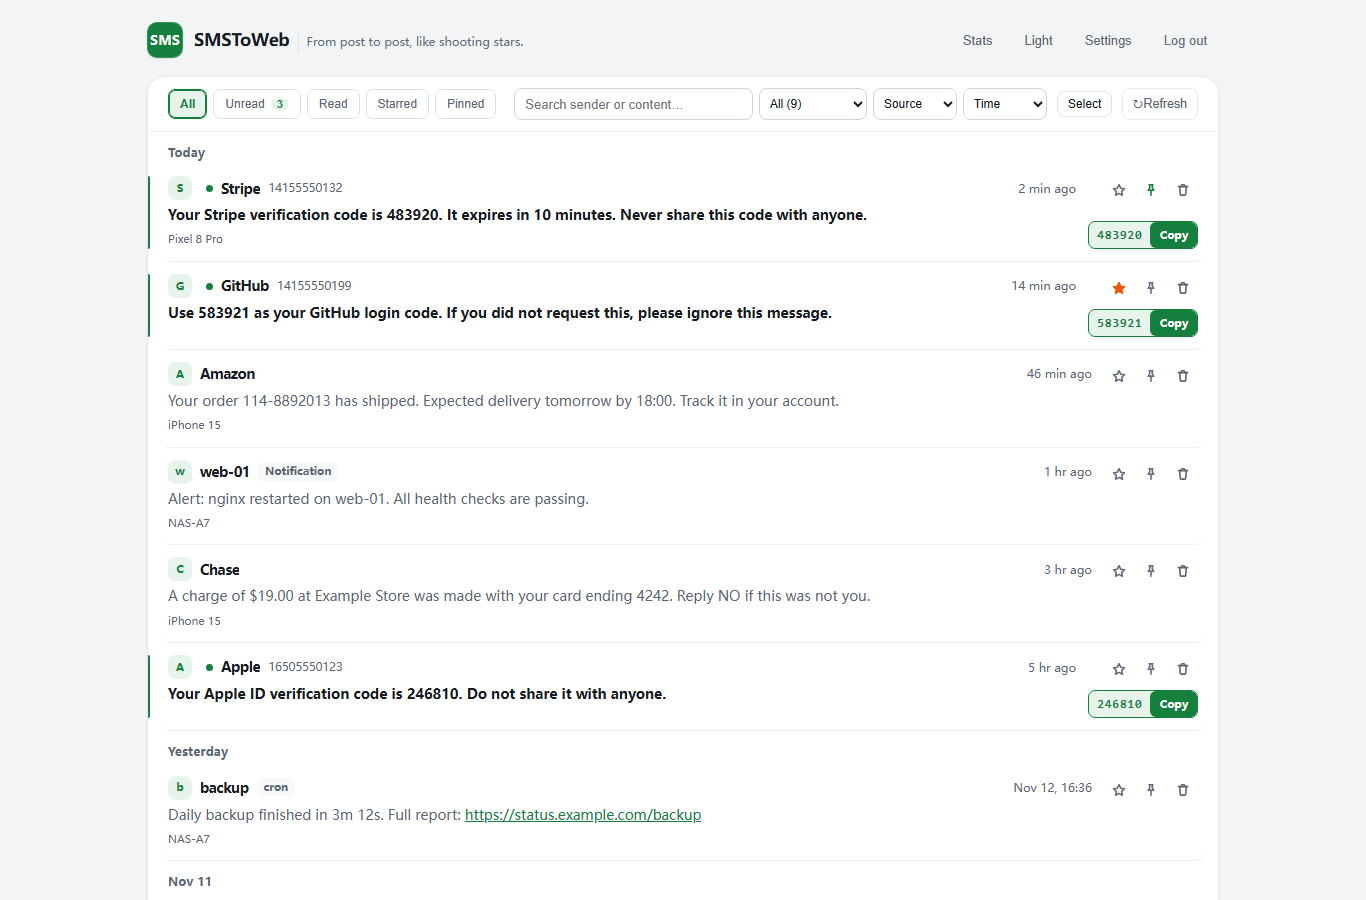
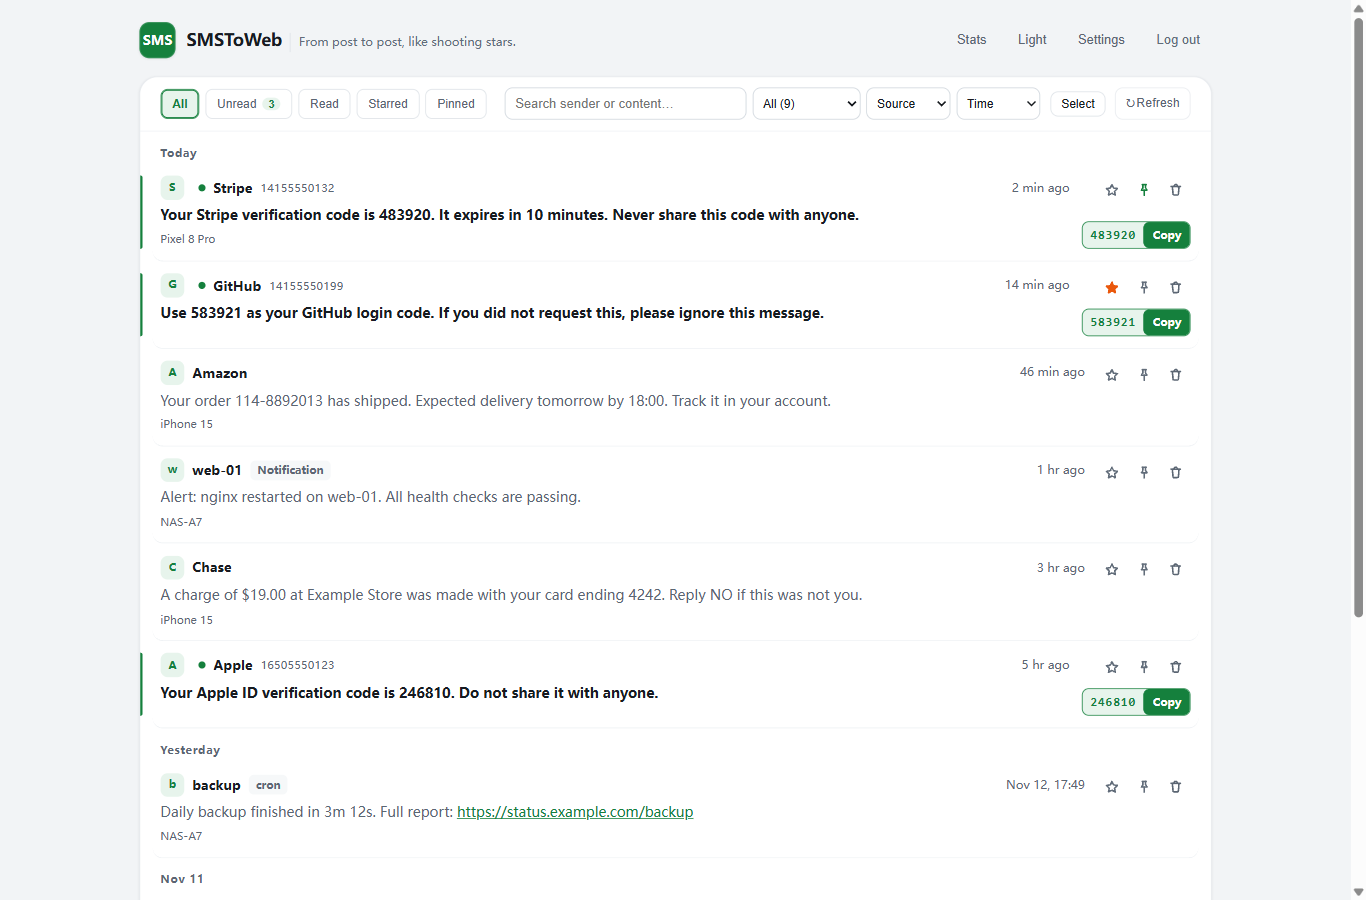
docs(release): v1.1.8 README/截图/使用指南更新，补 UX-22~25 审计
- README：验证码条目改写（复制验证码在操作条最右、仅有码时出现、操作条按频率排序、
  复制全文改为双击/长按正文全选）；截图版本号 v1.1.8
- docs/images 六张截图用 ego lite 重出（页脚 v1.1.8）
- 04-使用指南：补「复制整条内容」，多选入口与一次性提示改为当前实现
- 审计文档新增十六节：三轮返工的起因、最终形态、实测数据、两个技术坑

diff --git a/README.md b/README.md
@@ -11,7 +11,7 @@ SMSToWeb collects messages from any channel — SMS forwarders, app notification
 - **Universal push**: any device that can send an HTTP request (Linux / Windows / macOS / iOS / NAS / scripts) can push notifications into the same page
 - **Sources & filters**: filter dynamically by source (SMS / notifications and custom sources auto-aggregated), stacked with keyword search and Today / Last 7 days / Last 30 days ranges; adjustable page size
 - **Message list**: **10 messages per page by default**; each card shows a **two-line summary (up to 120 codepoints, Unicode-safe)** and opens the full text in a detail dialog; a **Load more** button appends older messages progressively (cursor pagination, no full-history fetch); opening a message marks it read (failure rolls back and reports instead of faking success)
-- **Verification code**: codes are detected server-side (Chinese / English / mixed, 4–8 digits, separator and alphanumeric forms, phone/order/amount/date noise stripped) and shown in a highlighted chip at the bottom-right of each card with a one-tap copy button; the detail dialog always offers a **Copy code** action regardless of that setting; copy uses the Clipboard API with an `execCommand` fallback and reports failure instead of faking success
+- **Verification code**: codes are detected server-side (Chinese / English / mixed, 4–8 digits, separator and alphanumeric forms, phone/order/amount/date noise stripped) and shown in a highlighted chip at the bottom-right of each card with a one-tap copy button; in the detail dialog **Copy code** sits at the **far right of the action bar — the spot a right thumb reaches first — and only appears when the message actually contains a code**; the action bar is ordered by how often it is used (label · call · mark unread · star · pin · copy code); to copy the whole message, **double-click the body (or long-press it on touch) to select all** and copy with the system menu — there is no separate Copy-text button; copy uses the Clipboard API with an `execCommand` fallback and reports failure instead of faking success
 - **Pagination consistency**: the cursor carries a **SHA-256 fingerprint of the starred ID set**; if starring changes mid-session, the server rejects the stale cursor with `409 CURSOR_STALE` and the page reloads from the top, so messages are never skipped or duplicated (list order is pinned → time → id; starring no longer affects ordering)
 - **Multi-channel forwarding**: new messages can be auto-forwarded to Feishu / WeCom / DingTalk / Telegram / ServerChan / PushPlus / Bark / ntfy / Gotify / Email / generic Webhook — configured in the admin **Settings → Alerts** page (stored in your database, per-channel enable/disable, **multiple independent targets per channel**, credential update, per-target test send); one failing target does not block the others, and legacy environment variables are still honoured when no database value exists
 - **Optional security**: admin login toggle, multi-format OTP code extraction (code-first / keyword-first / segmented / mixed, false-positive resistant) with one-tap copy, dark mode
@@ -24,7 +24,7 @@ SMSToWeb collects messages from any channel — SMS forwarders, app notification
 
 ## Screenshots
 
-> Screenshots show the **English UI with sample data** (v1.1.7). Change the interface language under **Settings → Display → Language**. The mobile shot is a 390px viewport.
+> Screenshots show the **English UI with sample data** (v1.1.8). Change the interface language under **Settings → Display → Language**. The mobile shot is a 390px viewport.
 
 **Message center overview**
 

diff --git a/docs/audit/FEAD-ENG-02/12-ux14-delivery-and-cf-etag-decision.md b/docs/audit/FEAD-ENG-02/12-ux14-delivery-and-cf-etag-decision.md
@@ -395,3 +395,47 @@ de/es/fr/pt/ko 标签 11.5px / 内边距 8px，德语再收一档（11px / 6px /
 
 **版本处理**：线上两域名已在跑 v1.1.7，按用户决定**保持同号**，修复随下一次部署生效；
 完整验收记录见 `docs/releases/v1.1.7-acceptance.md`。
+
+---
+
+## 十六、详情操作条三次返工：UX-22 → UX-25（v1.1.8）
+
+这一条是「按标注改，但标注要先读懂」的反面教材，记下来避免重犯。
+
+### 16.1 三轮改动的真实原因
+
+| 轮次 | 我做的 | 问题 |
+| --- | --- | --- |
+| UX-22 | 把「复制验证码」从图标条**移出**，改成正文下方独占一行的实心按钮 | 方向错了。用户的诉求是「它在图标条这个位置不能被裁掉」，不是「它不该在图标条里」 |
+| UX-23 | 挪回图标条，7 格改 `flex:1 1 0` 等分，行尾固定；实心主色 | 溢出解决了（7×46=322 装进 321），但用 `flex:2.1` 给码值留宽，导致其余 6 格只有 35px 宽，触控区掉一半 |
+| UX-24 | 放弃在格子里印码值，7 格真等分（390 → 46×44、320 → 36×44） | 顺手发现桌面老 bug：`.modal-foot` 是 `nowrap`，而 `.foot-bottom` 是 `flex:0 0 100%`，父级不换行会把 `.foot-rail` 压成 **0 宽**，7 个按钮竖排成一列，1366 下 footer 高达 305px |
+| UX-25 | 取消「复制全文」按钮（双击 / 长按正文全选）；复制验证码钉**最右**且**仅含码时渲染**；顺序按「右边最好按」重排 | 定版 |
+
+### 16.2 最终形态
+
+- **图标条（左 → 右）**：标签 · 打电话 · 标为未读 · 收藏 · 置顶 · 复制验证码。
+  依据：右撇子右手拇指最先够到右端，最左最难够到 —— 最少用的「标签」放最左，最高频的「复制验证码」放最右。
+- **复制验证码**：实心主色（`--ds-color-primary-fill` + `--ds-color-on-primary`），`code ? … : ''` 条件渲染，没码的消息 DOM 里根本没有 `#dccopy`。
+- **复制全文按钮已删除**：`selectBodyText()` + `bindBodySelectAll()` 挂在 `.detail-body` 上，
+  `dblclick` 与 `touchstart`+500ms 触发 `Range.selectNodeContents`；长按期间位移 > 8px 判为滚动取消；落在正文内 `<a>` 上不接管。
+- `.detail-body` 显式 `user-select:text`，避免被卡片层的 `user-select:none` 继承影响。
+
+### 16.3 ego lite 实测（真实 Chromium）
+
+| 宽度 | 格数 | 每格 | 溢出 | 详情底栏高 |
+| --- | --- | --- | --- | --- |
+| 320 | 6 | 42×44 | 0 | 120px |
+| 390 | 6 | 52×44 | 0 | 120px |
+| 430 | 6 | 52×44 | 0 | 120px |
+| 1366 | 6（带文字标签单行） | — | 0 | 120px（修 nowrap 前为 305px） |
+
+交互实测（390，CDP 真实事件）：双击正文选中 `101/101` 字；`Input.dispatchTouchEvent` 长按 750ms 同样 `101/101`；
+无码消息打开后 `#dccopy` 不存在（该条为非短信来源，只剩 未读/收藏/置顶 3 格）。
+
+### 16.4 两个技术坑
+
+1. **`background` 被更高权重规则吃掉**：`.modal-foot .tbtn`（0,2,0）写了 `background: transparent`，
+   而 `.tbtn--code` 只有（0,1,0），主色底完全不生效 —— 实测 `getComputedStyle` 拿到 `rgba(0,0,0,0)` 才发现。
+   改成 `.tbtn.tbtn--code`（0,2,0）+ 位置在后，才压得住。
+2. **只测「计划值」不测「计算值」会漏**：`overflow: 0` 看着正常，实际按钮宽 35px。断言里补上每格宽度与 `withinRail`（右边缘不越界）。
+

diff --git a/docs/guide/04-使用指南.md b/docs/guide/04-使用指南.md
@@ -34,11 +34,12 @@ POST https://你的域名/api/push?token=你的RECEIVE_TOKEN
 | 看新消息 | 打开管理页即可，页面通过长轮询**自动刷新**，不用手动刷新 |
 | 找某条消息 | 顶部搜索框输关键词；可按来源（短信 / 通知 / 自定义）、今天 / 近 7 天 / 近 30 天筛选 |
 | 看全文 | 点消息卡片打开详情（列表默认只显示两行摘要） |
-| 复制验证码 | 卡片顶部验证码胶囊，点一下复制；失败会明确报错，不会假装成功 |
+| 复制验证码 | 卡片右下角验证码胶囊，点一下复制；详情里「复制验证码」固定在**操作条最右**（右手拇指最好按的位置），**只有消息里确实有验证码时才出现**；失败会明确报错，不会假装成功 |
+| 复制整条内容 | 详情里**鼠标双击正文**（手机**长按正文约 0.5 秒**）自动全选，再用系统复制 —— 界面上没有单独的「复制全文」按钮 |
 | 收藏 / 未读 | 星标置顶、未读筛选、打开详情自动标记已读 |
-| 多选 / 导出 | **右键任意消息**（手机端**长按**）进入批量选择，才有删除、清空、导出 CSV/JSON |
+| 多选 / 导出 | **右键任意消息**（手机端**长按**）进入批量选择，才有删除、清空、导出 CSV/JSON；桌面也可点工具栏「多选」，手机**⋯ 菜单**里也有入口 |
 
-> 多选栏默认是隐藏的，这是设计如此。当前版本界面上没有常驻的「选择 / 导出」按钮，已记录在 [界面交互问题清单](08-界面交互问题清单.md)（B-2），属待批准改进项。
+> 多选栏平时是收起的：进入多选后才会展开复选框与批量条。手机首次长按或点「多选」时会弹一次性提示（点「知道了」不再出现，用过一次多选后也自动收起）。
 
 ## 三、如何管理设备
 
